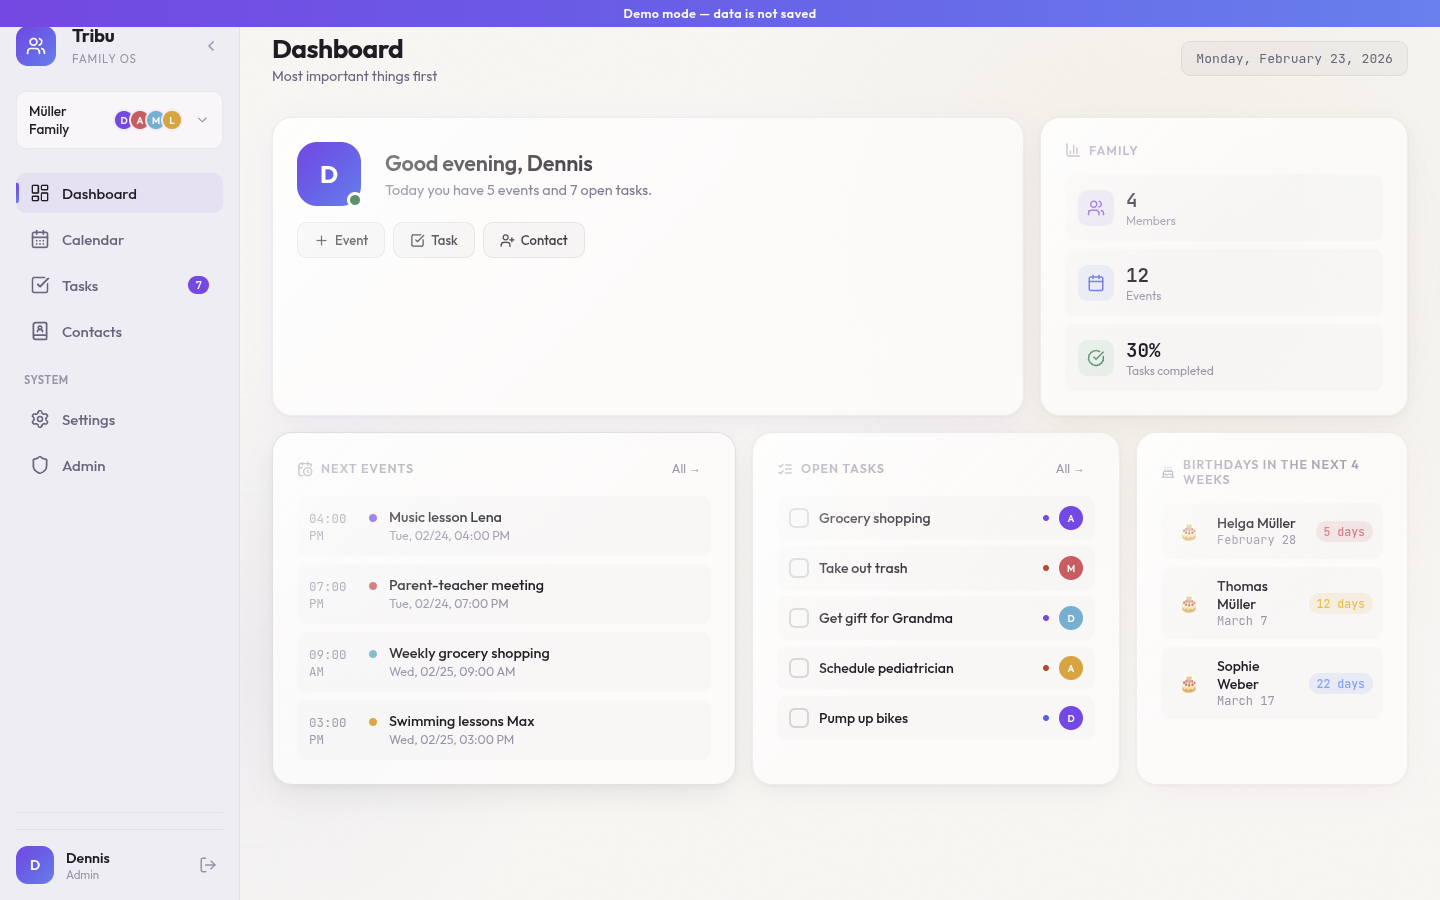
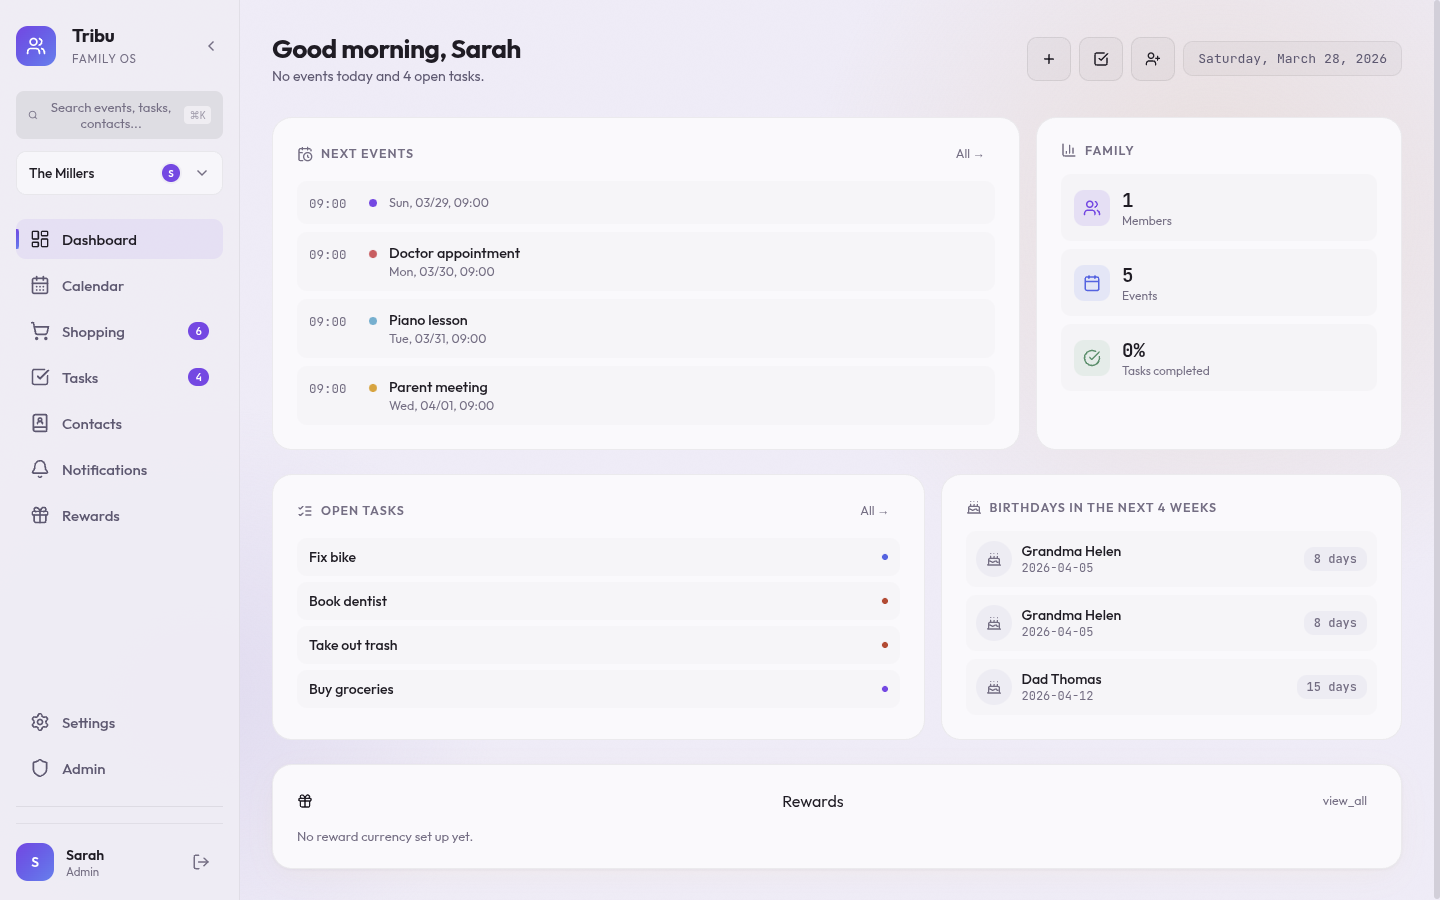
docs: update README for v1.1 design overhaul + fresh screenshots
- Removed all glassmorphism/glass references from copy
- Updated feature table: rewards, search, notifications panel, FAB
- Replaced em dashes with double hyphens
- Updated screenshot captions for new design
- Added shopping and rewards screenshots
- Hero: desktop dark, English
- Detail screenshots: mobile dark, English
- Light theme desktop screenshot in details
- All screenshots taken from live instance with v1.1 code

diff --git a/README.md b/README.md
@@ -6,7 +6,7 @@
 
 <p align="center">
   <strong>Self-hosted family organizer to tame the everyday chaos.</strong><br>
-  Calendars, tasks, shopping lists, contacts, birthdays &mdash; one place, your server, your data.
+  Calendars, tasks, shopping lists, contacts, birthdays -- one place, your server, your data.
 </p>
 
 <p align="center">
@@ -26,11 +26,11 @@
 ---
 
 <p align="center">
-  <img src="docs/assets/screenshot-dark.png" alt="Dashboard - Midnight Glass theme" width="100%" />
+  <img src="docs/assets/screenshot-dark.png" alt="Dashboard - Dark theme" width="100%" />
 </p>
 
 <p align="center">
-  <em>Midnight Glass theme &mdash; glassmorphism, bento grid dashboard, mesh background</em>
+  <em>Content-first dashboard -- today's events, tasks, birthdays, and rewards at a glance</em>
 </p>
 
 <details>
@@ -42,13 +42,21 @@
 
 <img src="docs/assets/screenshot-light.png" alt="Dashboard - Morning Mist theme" width="100%" />
 
-**Calendar with day-detail panel**
+**Calendar with day-detail panel and create FAB**
 
 <img src="docs/assets/screenshot-calendar.png" alt="Calendar view" width="100%" />
 
-**Tasks with priorities, assignees, and overdue tracking**
+**Tasks with collapsible form, priorities, and assignees**
 
 <img src="docs/assets/screenshot-tasks.png" alt="Tasks view" width="100%" />
+
+**Shopping with real-time sync and progress bars**
+
+<img src="docs/assets/screenshot-shopping.png" alt="Shopping view" width="100%" />
+
+**Rewards system with child progress tracking**
+
+<img src="docs/assets/screenshot-rewards.png" alt="Rewards view" width="100%" />
 
 **Login page**
 
@@ -70,24 +78,26 @@ See the [Wiki](https://github.com/itsDNNS/tribu/wiki) for screenshots of every v
 
 Most family organizer apps lock your data in their cloud and charge monthly fees. Tribu runs on your own hardware, gives you full control, and costs nothing.
 
-- **Privacy first** &mdash; all data stays on your server, no third-party services
-- **Modular** &mdash; each feature is an isolated plugin, extend what you need
-- **Beautiful** &mdash; three polished themes with glassmorphism, animations, and responsive design
-- **Bilingual** &mdash; German and English out of the box, lazy-loaded per module
-- **Try before you install** &mdash; interactive demo mode with realistic sample data, no backend needed
+- **Privacy first** -- all data stays on your server, no third-party services
+- **Modular** -- each feature is an isolated plugin, extend what you need
+- **Clean design** -- content-first UI with solid cards, consistent spacing, and proper accessibility
+- **Bilingual** -- German and English out of the box, lazy-loaded per module
+- **Try before you install** -- interactive demo mode with realistic sample data, no backend needed
 
 ## Features
 
 | | |
 |---|---|
-| **Dashboard** | Bento grid with today's events, open tasks, birthday countdowns, and family stats |
-| **Calendar** | Month/week view, event dots, day-detail panel, recurring events, ICS import/export |
-| **Tasks** | Priorities, due dates, assignees, recurring tasks, overdue tracking |
-| **Shopping** | Multiple lists, tap-to-toggle items, real-time sync via WebSocket |
-| **Contacts** | Card grid with colored avatars, CSV import/export, birthday extraction |
-| **Birthdays** | 4-week lookahead with countdown, auto-synced from contacts |
-| **Notifications** | In-app feed with event reminders, overdue tasks, and birthday alerts |
-| **Themes** | Morning Mist (light), Dark, Midnight Glass (glassmorphism) |
+| **Dashboard** | Today's events, open tasks, birthday countdowns, family stats, and quick actions |
+| **Calendar** | Month/week view, event dots, day-detail panel, recurring events, ICS import/export, create FAB |
+| **Tasks** | Priorities, due dates, assignees, recurring tasks, collapsible create form, overdue tracking |
+| **Shopping** | Multiple lists, tap-to-toggle with check animation, progress bars, real-time WebSocket sync |
+| **Contacts** | Alphabetical card grid, colored avatars, CSV import/export, birthday extraction |
+| **Birthdays** | 4-week lookahead with proximity-based countdown colors, auto-synced from contacts |
+| **Rewards** | Family token economy with earning rules, reward catalog, child progress bars, Lucide icons |
+| **Notifications** | Slide-in panel with time grouping (today/yesterday/older), event reminders, overdue alerts |
+| **Search** | Global search across events, tasks, shopping, contacts, and birthdays (Cmd+K) |
+| **Themes** | Morning Mist (light) and Dark |
 | **i18n** | English and German out of the box, lazy-loaded per module |
 | **Demo mode** | Try the full UI with realistic sample data, no server setup required |
 | **Security** | httpOnly cookies, rate limiting, scoped PATs, non-root containers |
